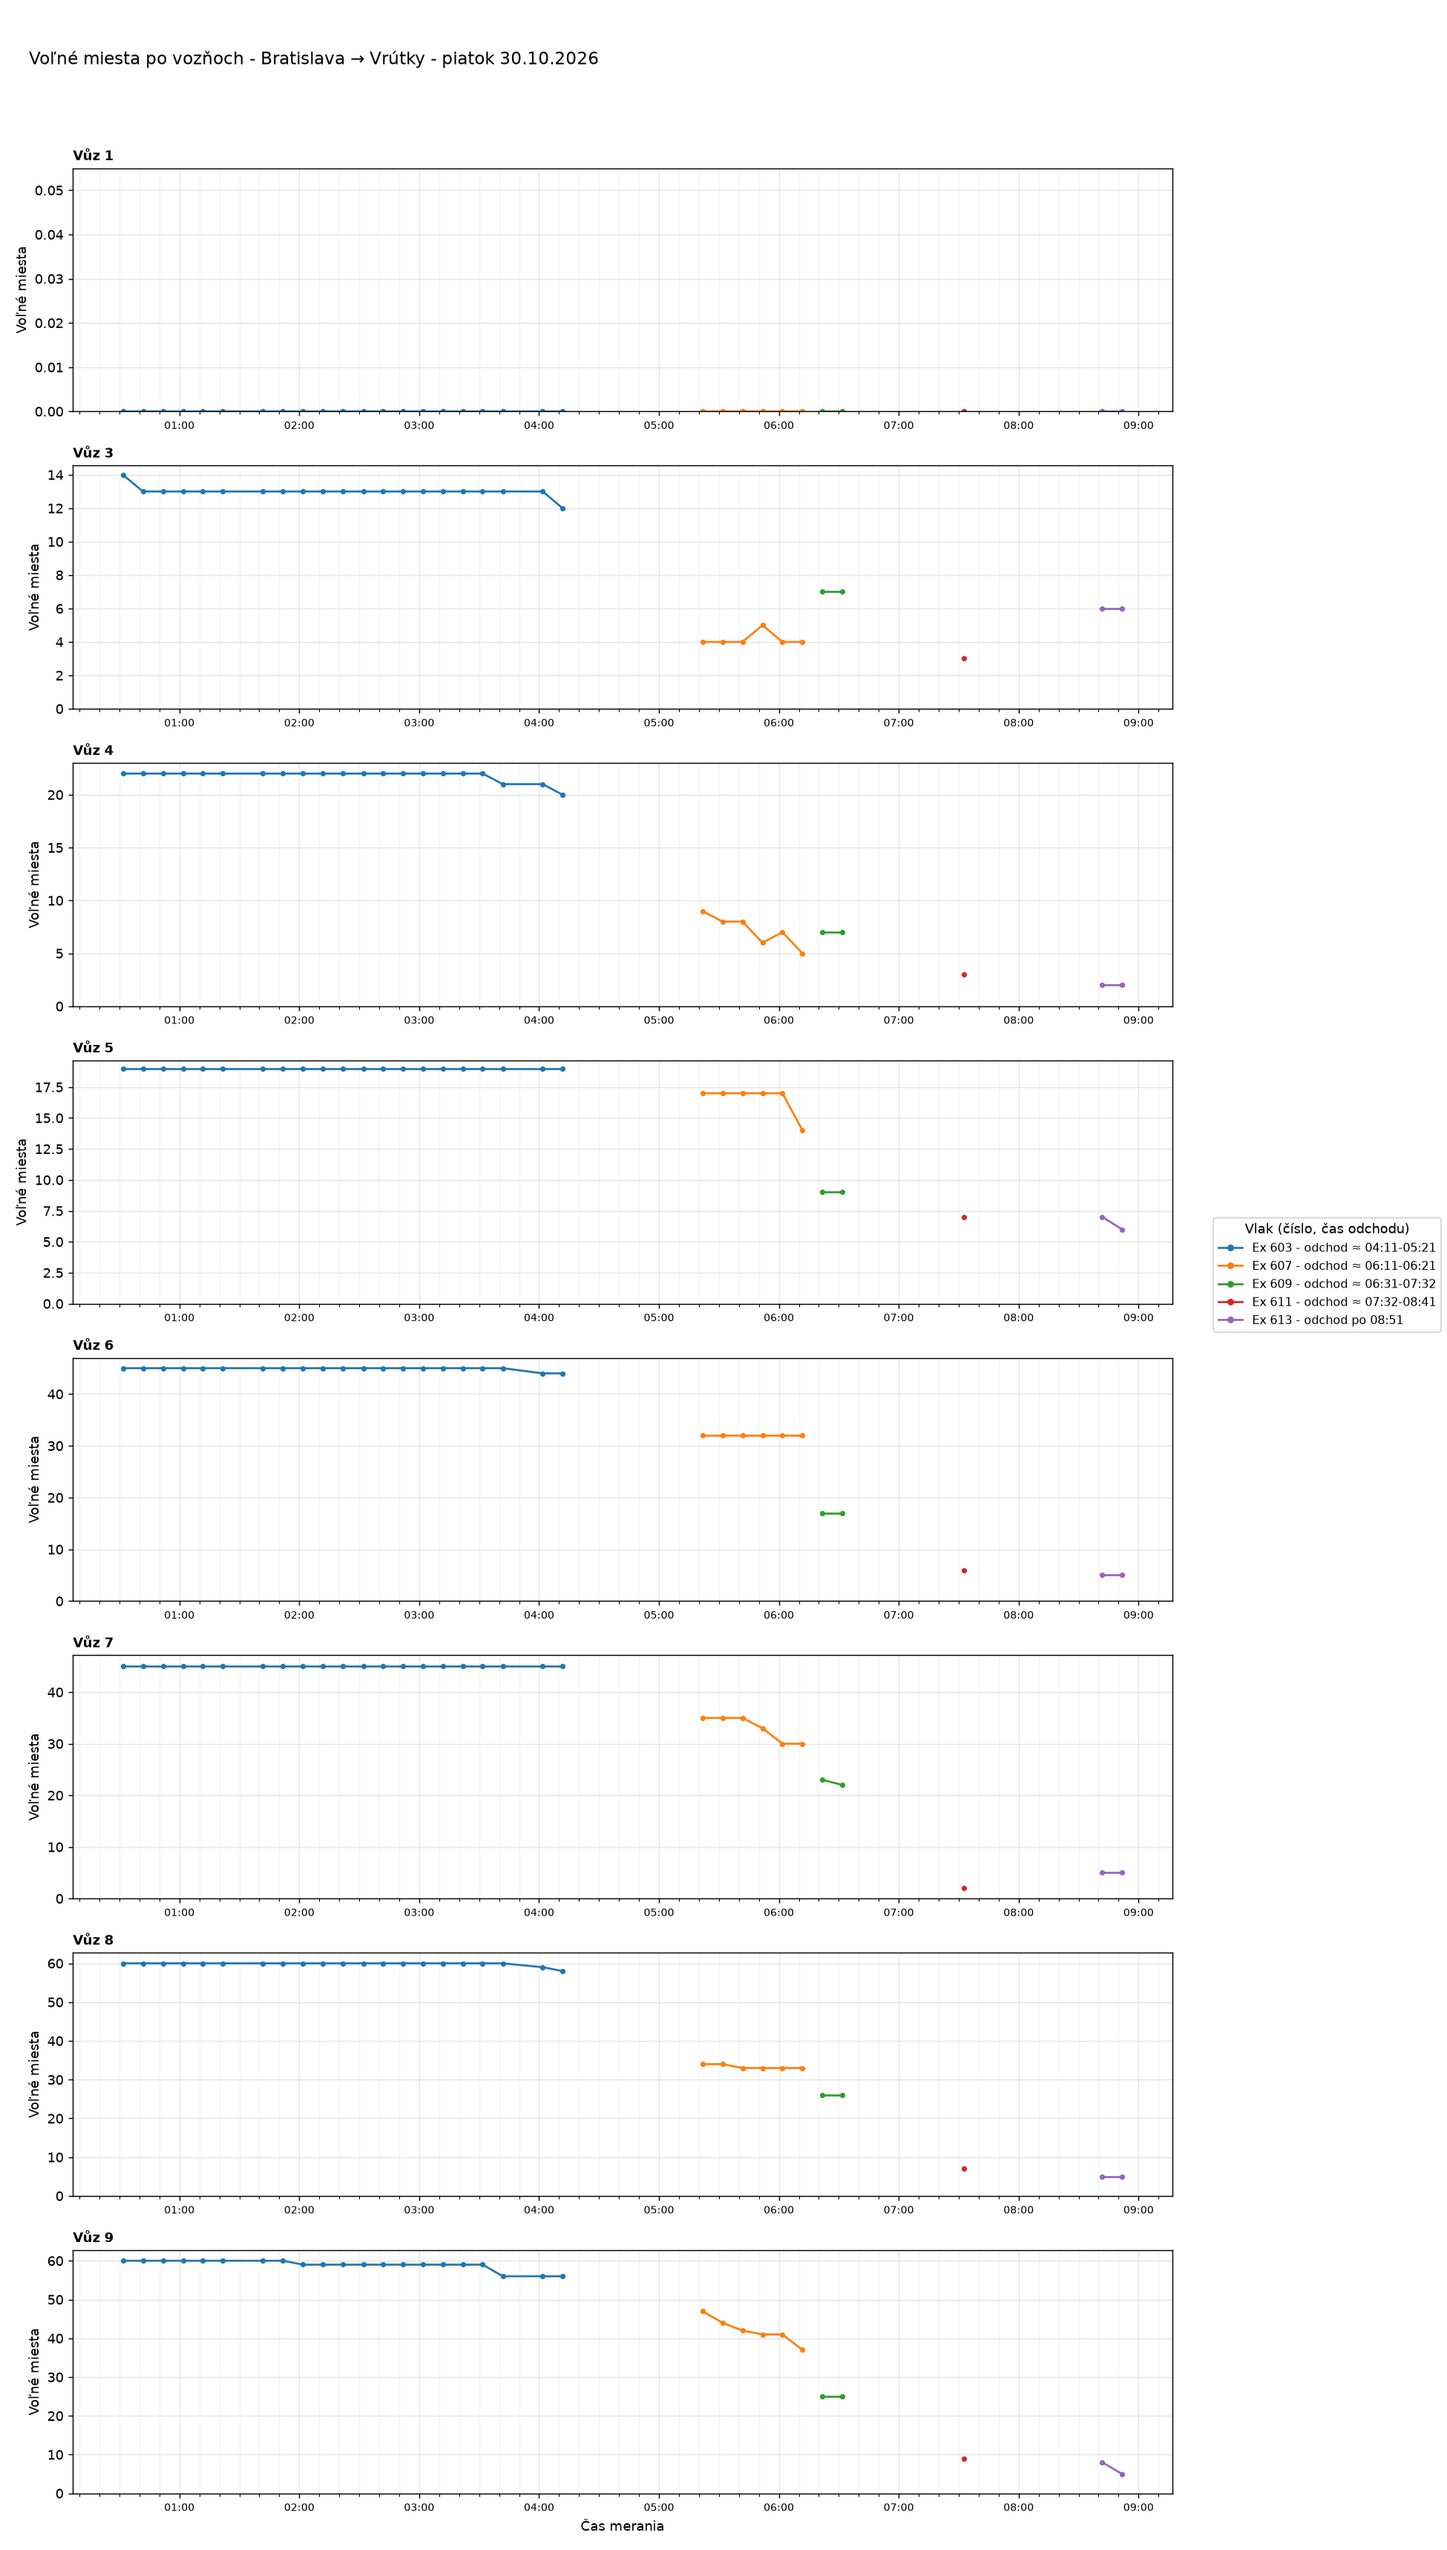
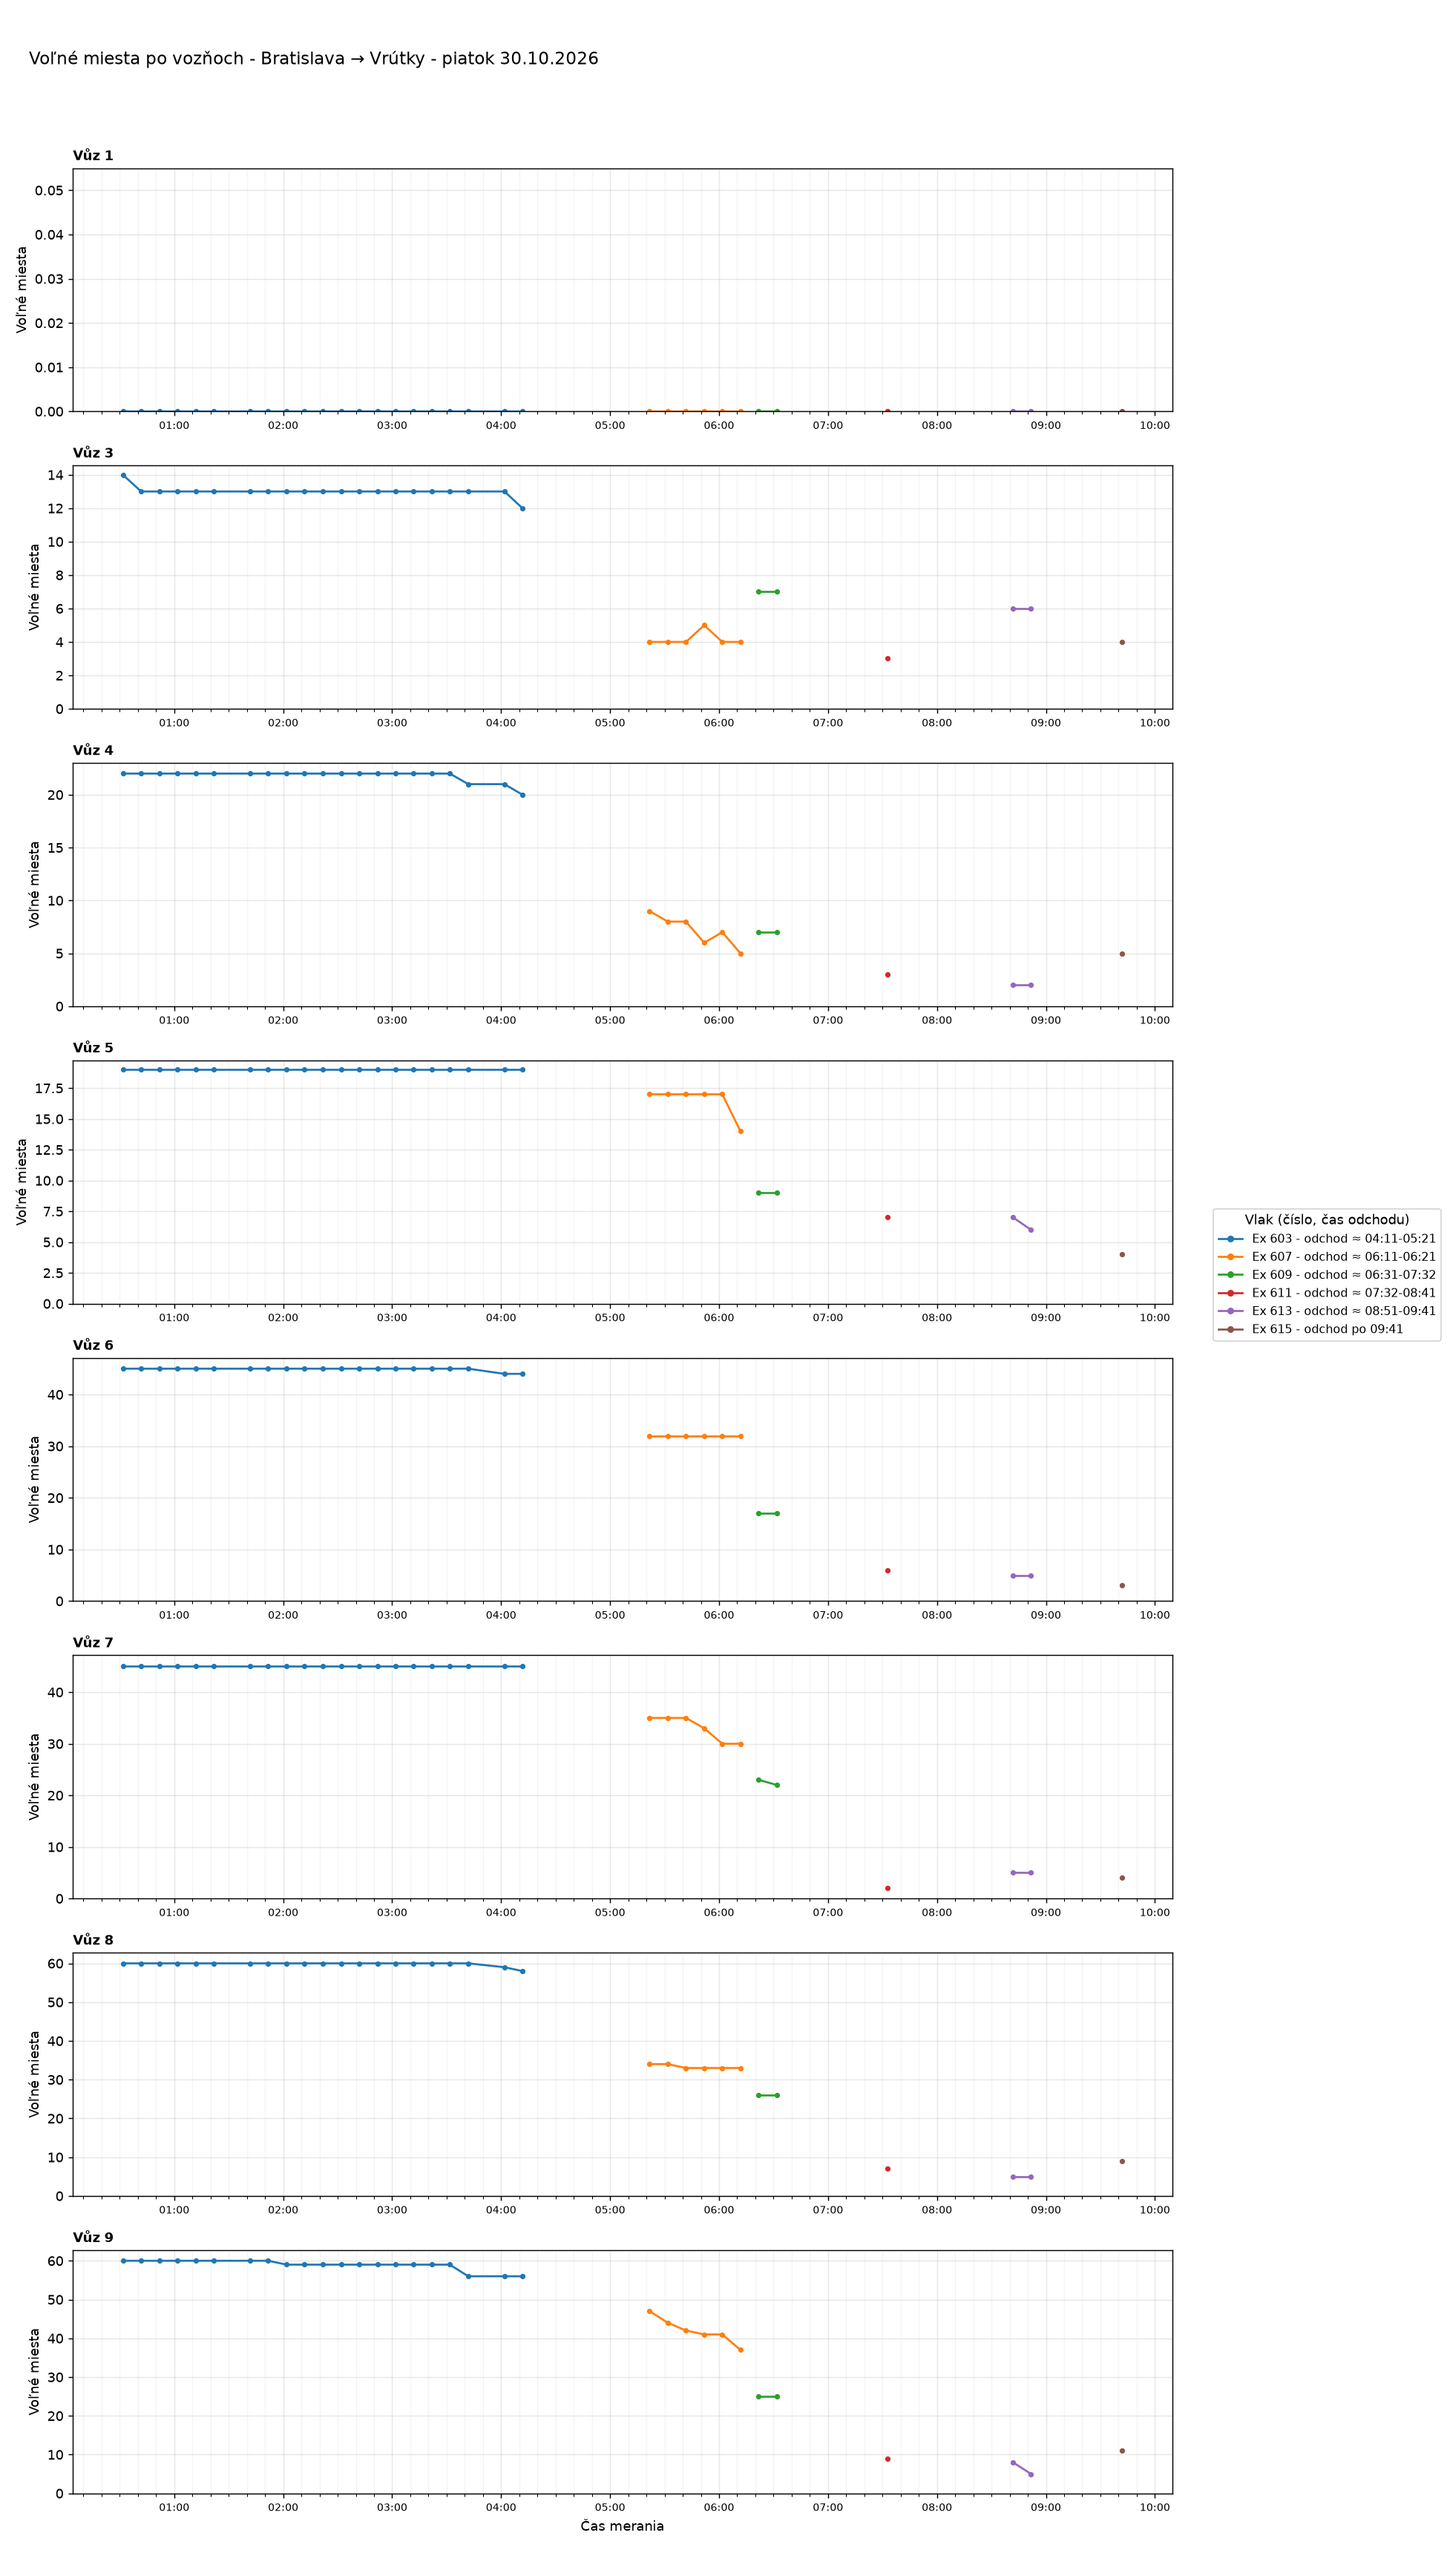
Aktualizácia grafov 2026-10-30 09:44

Changed region(s): [[0.8308, 0.4671, 1.0, 0.5294], [0.3385, 0.7474, 0.3692, 0.7785]]

diff --git a/index.html b/index.html
@@ -37,7 +37,7 @@ details.trasa>summary{cursor:pointer;font-weight:600;font-size:1.1rem;padding:8p
 <body>
 <main>
 <h1>Voľné miesta vo vlakoch</h1>
-<p class="muted">Posledné meranie: 30.10.2026 08:53 ·
+<p class="muted">Posledné meranie: 30.10.2026 09:42 ·
 <a href="data/obsadenost_data.csv">stiahnuť dáta (CSV)</a></p>
 <nav class="nav"><a href="#suhrn">Súhrn</a><a href="#statistiky">Štatistiky</a><a href="#historia">História grafov</a></nav>
 
@@ -46,8 +46,8 @@ details.trasa>summary{cursor:pointer;font-weight:600;font-size:1.1rem;padding:8p
 <div class="tablewrap"><table>
 <thead><tr><th>Deň</th><th>Trasa</th><th>Meraní</th><th>Vlakov</th><th>Čas meraní</th></tr></thead>
 <tbody>
-<tr><td><a href="#dBA-VR-2026-10-30">piatok 30.10.2026</a></td><td>Bratislava → Vrútky</td><td>32</td><td>5</td><td>00:31-08:51</td></tr>
-<tr><td><a href="#dVR-BA-2026-10-30">piatok 30.10.2026</a></td><td>Vrútky → Bratislava</td><td>25</td><td>4</td><td>02:52-08:52</td></tr>
+<tr><td><a href="#dBA-VR-2026-10-30">piatok 30.10.2026</a></td><td>Bratislava → Vrútky</td><td>33</td><td>6</td><td>00:31-09:41</td></tr>
+<tr><td><a href="#dVR-BA-2026-10-30">piatok 30.10.2026</a></td><td>Vrútky → Bratislava</td><td>26</td><td>5</td><td>02:52-09:42</td></tr>
 <tr><td><a href="#dBA-KE-2026-10-30">piatok 30.10.2026</a></td><td>Bratislava → Košice</td><td>32</td><td>5</td><td>00:22-08:53</td></tr>
 <tr><td><a href="#dKE-BA-2026-10-30">piatok 30.10.2026</a></td><td>Košice → Bratislava</td><td>27</td><td>5</td><td>00:23-08:43</td></tr>
 <tr><td><a href="#dBA-VR-2026-10-29">štvrtok 29.10.2026</a></td><td>Bratislava → Vrútky</td><td>84</td><td>14</td><td>00:01-23:31</td></tr>
